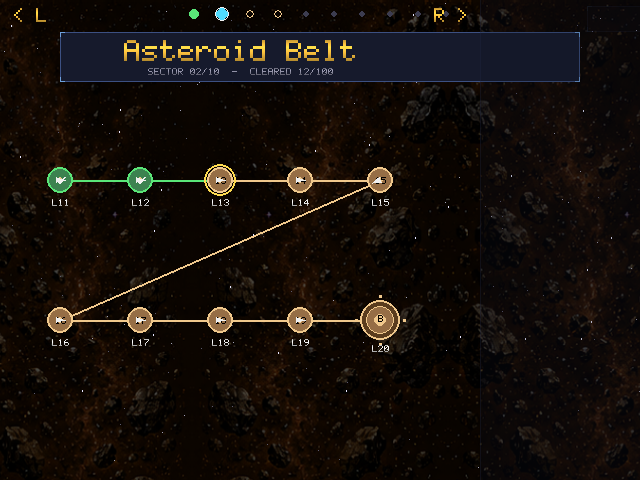
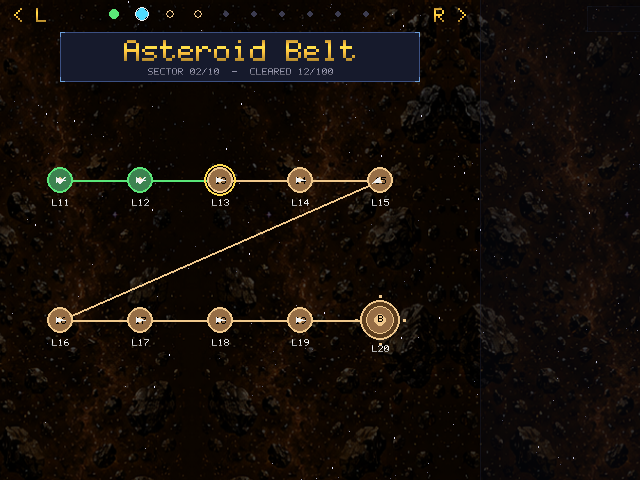
v0.9.288: map area title + sector tabs align to 480, not 640
The map now has a right-side panel (480-640); its left-content
elements were still centring/sizing on PLAY_W (640) and ran under
the panel. Re-anchor to HUD_X (480): sector tabs, sector header
banner, and the flash-message box. Header text was already at x=240.

diff --git a/pewpew.py b/pewpew.py
@@ -137,7 +137,7 @@ def _web_is_touch():
 # features, major for big-rewrites. Skipping the bump means the next user
 # sees the same number and can't tell if they're on the latest build.
 # ──────────────────────────────────────────────────────────────────────────
-VERSION = "0.9.287"
+VERSION = "0.9.288"
 
 # ──────────────────────────────────────────────────────────────────────────
 # HUD layout suppression
@@ -17551,7 +17551,7 @@ class MapScreen:
         tabs_y = 14
         spacing = 28
         tabs_total = (10 - 1) * spacing
-        tabs_x0 = (PLAY_W - tabs_total) // 2
+        tabs_x0 = (HUD_X - tabs_total) // 2
         for i in range(10):
             x = tabs_x0 + i * spacing
             sector_done = all(
@@ -17847,7 +17847,7 @@ class MapScreen:
 
         # ---- Sector header banner ----
         # Panel chrome stays in code; the text inside is element-driven.
-        _panel(screen, 60, 32, PLAY_W - 120, 50)
+        _panel(screen, 60, 32, HUD_X - 120, 50)
         for eid in ("sector_title", "sector_subtitle"):
             el = get_element("map", eid, **map_vars)
             if el is not None:
@@ -17906,7 +17906,7 @@ class MapScreen:
             a = clamp(self._flash_t / 2.5, 0.0, 1.0)
             box_w = 360
             box_h = 36
-            bx = (PLAY_W - box_w) // 2
+            bx = (HUD_X - box_w) // 2
             by = 96
             overlay = pygame.Surface((box_w, box_h), pygame.SRCALPHA)
             overlay.fill((20, 28, 50, int(220 * a)))
@@ -17914,7 +17914,7 @@ class MapScreen:
             pygame.draw.rect(screen, (160, 200, 240, int(255 * a)),
                              (bx, by, box_w, box_h), 1)
             txt = fonts["small"].render(self._flash_msg, False, ORANGE)
-            screen.blit(txt, txt.get_rect(center=(PLAY_W // 2, by + box_h // 2)))
+            screen.blit(txt, txt.get_rect(center=(HUD_X // 2, by + box_h // 2)))
 
         draw_layout_overlay(screen, "map", fonts, self.app.assets)
 
